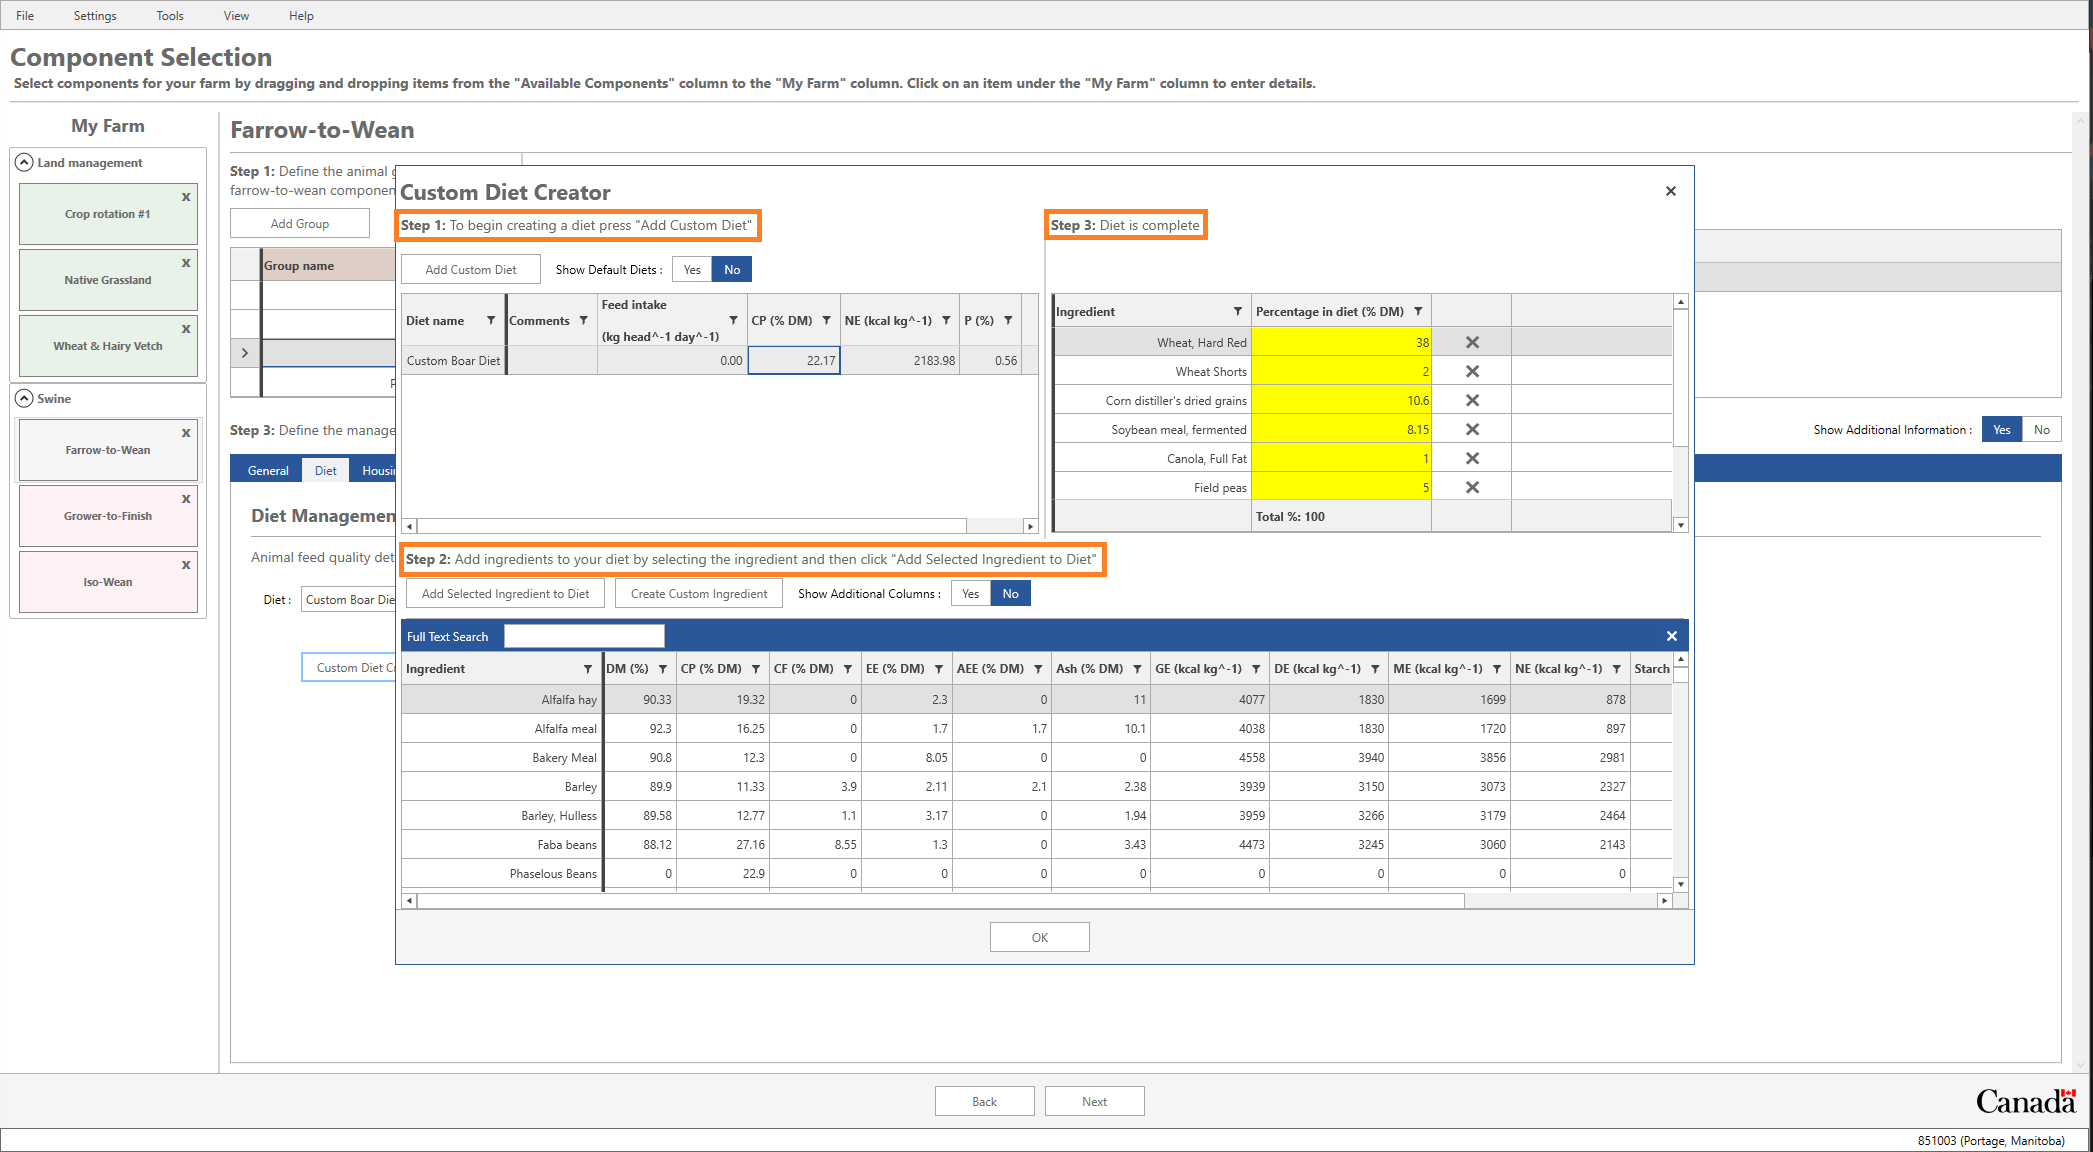
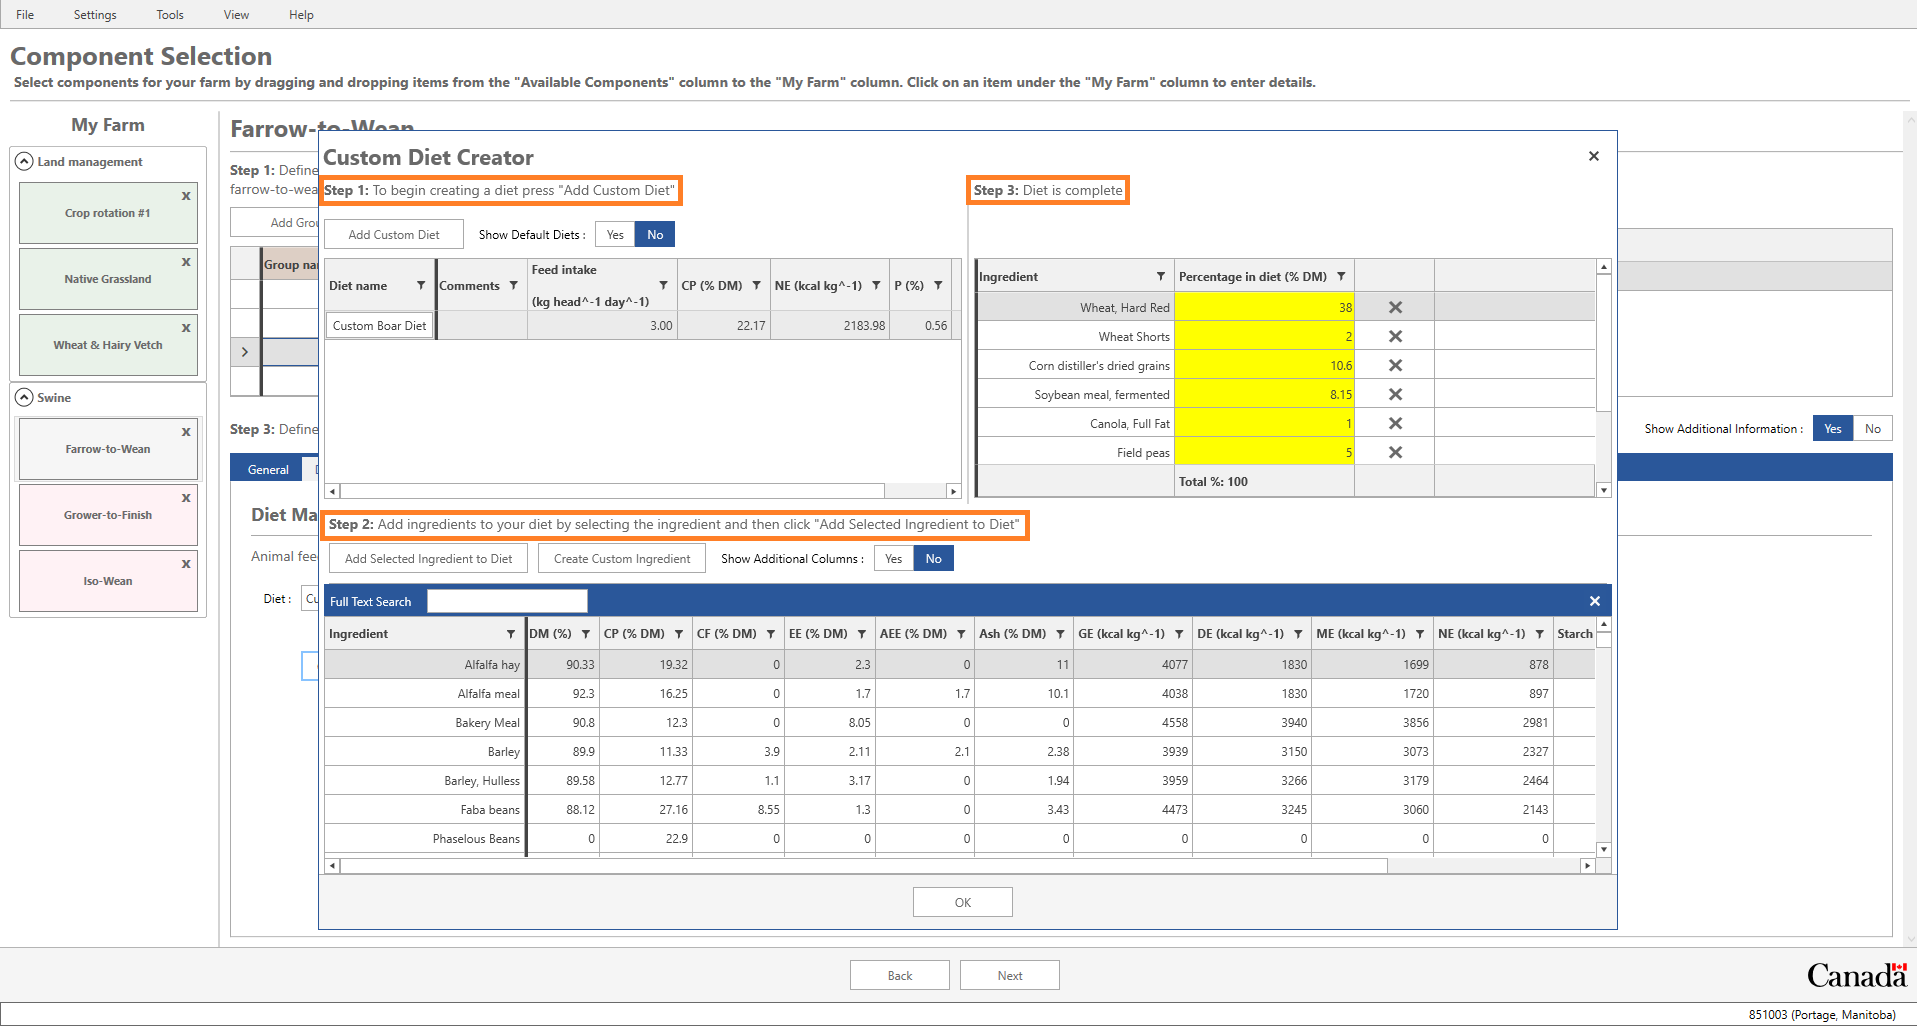
Updates to Swine training

Changed region(s): [[0.0, 0.0, 1.0, 1.0]]

diff --git a/H.Content/Documentation/Swine Training Guide/Holos_4_Swine_Training_Guide.md b/H.Content/Documentation/Swine Training Guide/Holos_4_Swine_Training_Guide.md
@@ -396,6 +396,7 @@ As an alternative to the default set of standard animal diets that are found in 
     * Enter **"Corn distiller's dried grains (10.6%)"**. Continue to add all the various ingredients to your diet. For our boar diet, add ingredients as follows: "Soybean meal, fermented (8.15%)", "Canola, Full fat (1%)", "Field peas (5.0%)", "Canola Meal, Expelled (15%)", and "Barley (20%)". 
     * If any ingredient is not found in the **Full Text Search**, the user can enter the ingredient information independently using the **"Create Custom Ingredient"** button. For our example we will add the combination of lysine/vitamins (0.25%) following these steps.  
     * Holos will now report the diet as being complete when **all ingredients total 100%**.
+    * Under **Step 1** input **"3"** as the value for 'Feed intake' 
     * Click the **OK** button to save the new custom diet
     * Now from the Diet tab, **"Custom Boar Diet"** can be selected from the drop down-down menu as the new diet for this animal group.
  
@@ -477,11 +478,11 @@ The second management period in **Step 2** will be named **"Summer Pasture Hogs"
 
 3. We will create a new diet as a supplement to grazing on pasture. Select the 'Custom Diet Creator' button. In **Step 1** on the this screen, select 'Add Custom Diet' and name it **"Hog Supplement"**. 
 
-4. In **Step 2** add the ingredients Barley (99.5%) and lysine/vitamins (0.5%). Lysine/vitamins will now appear in the text search as it was previously added for the 'Boar Diet'. 
+4. In **Step 2** add the ingredients Barley (99.5%) and lysine/vitamins (0.5%). Lysine/vitamins will now appear in the text search as it was previously added for the 'Boar Diet'.
 
-5. Adjust the 'Percentage in diet' values in **Step 3**. Click **OK** to save.
+5. Adjust the 'Percentage in diet' values in **Step 3**. Then under **Step 1** input the 'feed intake' for 'Hog Supplement' as **"3"**.  Click **OK** to save.
 
-6. On the **Diet tab** select 'Hog Diet Supplement' from the drop down menu.
+6. On the **Diet tab** select 'Hog Supplement' from the drop down menu.
 
 7. On the **Housing Tab:**
     * Select **Pasture/range/paddock** as the housing type.
